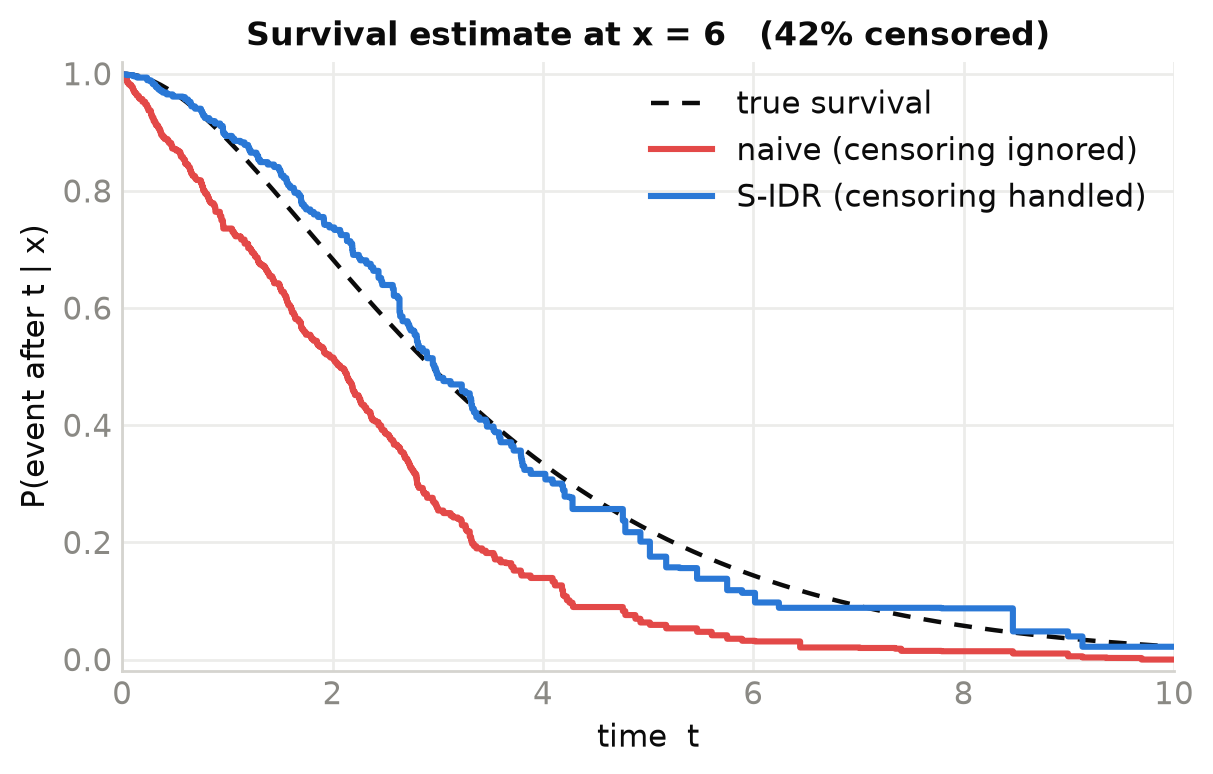
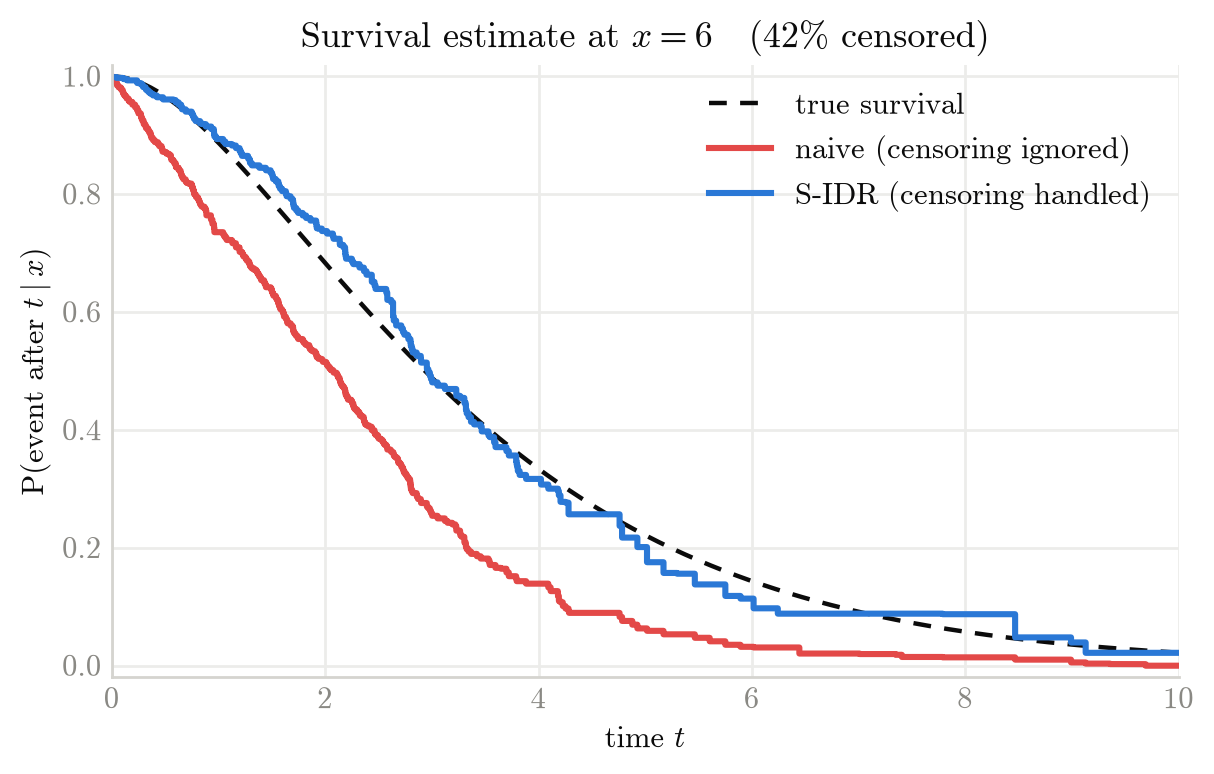
Expand README.md

diff --git a/doc/make_figures.py b/doc/make_figures.py
@@ -29,9 +29,17 @@ mpl.rcParams.update(
         "figure.facecolor": "white",
         "axes.facecolor": "white",
         "savefig.facecolor": "white",
+        # Computer Modern (the "LaTeX look") via matplotlib's own bundled fonts
+        # and mathtext — no external LaTeX/dvipng install required, so the script
+        # stays portable. cmr10 has no bold cut, hence normal-weight titles.
+        "font.family": "serif",
+        "font.serif": ["cmr10", "DejaVu Serif"],
+        "mathtext.fontset": "cm",
+        "axes.unicode_minus": False,
+        "axes.formatter.use_mathtext": True,
         "font.size": 11,
-        "axes.titlesize": 12,
-        "axes.titleweight": "bold",
+        "axes.titlesize": 13,
+        "axes.titleweight": "normal",
         "axes.labelcolor": INK,
         "axes.edgecolor": "#d5d4cf",
         "axes.linewidth": 1.0,
@@ -76,12 +84,12 @@ def figure_distribution():
     axL.scatter(x, y, s=9, color=MUTED, alpha=0.35, edgecolors="none",
                 label="observations", zorder=1)
     axL.fill_between(xs, lo, hi, color=BLUE, alpha=0.16, linewidth=0,
-                     label="10%–90% interval", zorder=2)
+                     label="10%-90% interval", zorder=2)
     axL.plot(xs, med, color=BLUE, lw=2.2, label="median", zorder=3)
     axL.plot(xs, mean, color=ORANGE, lw=2.2, label="mean", zorder=4)
-    axL.set_title("One fit → the whole conditional distribution")
-    axL.set_xlabel("covariate  x")
-    axL.set_ylabel("response  y")
+    axL.set_title(r"One fit $\rightarrow$ the whole conditional distribution")
+    axL.set_xlabel(r"covariate $x$")
+    axL.set_ylabel(r"response $y$")
     axL.set_ylim(-0.3, min(y.max(), 12))
     axL.legend(loc="upper left")
     tidy(axL)
@@ -93,9 +101,9 @@ def figure_distribution():
     cdfs = fit.cdf(np.array(picks))
     for xi, c, cdf in zip(picks, colors, cdfs):
         axR.plot(thr, cdf, drawstyle="steps-post", color=c, lw=2.0,
-                 label=f"x = {xi:.0f}")
-    axR.set_title("Predictive CDF  F(y | x)")
-    axR.set_xlabel("response  y")
+                 label=fr"$x = {xi:.0f}$")
+    axR.set_title(r"Predictive CDF $F(y \mid x)$")
+    axR.set_xlabel(r"response $y$")
     axR.set_ylabel("probability")
     axR.set_xlim(0, 10)
     axR.set_ylim(-0.02, 1.02)
@@ -139,9 +147,9 @@ def figure_censoring():
             label="naive (censoring ignored)")
     ax.plot(thr_s, surv_sidr, drawstyle="steps-post", color=BLUE, lw=2.2,
             label="S-IDR (censoring handled)")
-    ax.set_title(f"Survival estimate at x = {x0:.0f}   ({100*(1-observed.mean()):.0f}% censored)")
-    ax.set_xlabel("time  t")
-    ax.set_ylabel("P(event after t | x)")
+    ax.set_title(fr"Survival estimate at $x = {x0:.0f}$   ({100*(1-observed.mean()):.0f}% censored)")
+    ax.set_xlabel(r"time $t$")
+    ax.set_ylabel(r"P(event after $t \mid x$)")
     ax.set_xlim(0, 10)
     ax.set_ylim(-0.02, 1.02)
     ax.legend(loc="upper right")
@@ -166,9 +174,9 @@ def figure_subagging():
     xs = np.linspace(0.2, 9.8, 300)
     fig, ax = plt.subplots(figsize=(6.4, 4.0))
     ax.plot(xs, raw.predict(xs), color=MUTED, lw=1.8, label="single fit")
-    ax.plot(xs, bag.predict(xs), color=BLUE, lw=2.4, label="subagged (50×)")
+    ax.plot(xs, bag.predict(xs), color=BLUE, lw=2.4, label=r"subagged ($50\!\times\!$)")
     ax.set_title("Subagging stabilises the fit")
-    ax.set_xlabel("covariate  x")
+    ax.set_xlabel(r"covariate $x$")
     ax.set_ylabel("predicted mean")
     ax.set_xlim(0, 10)
     ax.legend(loc="upper left")

diff --git a/README.md b/README.md
@@ -1,7 +1,6 @@
 # isodistrreg: Isotonic Distributional Regression
 
-<p style="text-align: center;">**[Python](bindings/python/README.md) · [R](bindings/R/README.md) ·
-[Rust](isodistrreg/README.md)**</p> 
+<p align="center"><strong><a href="bindings/python/README.md">Python</a> · <a href="bindings/R/README.md">R</a> · <a href="isodistrreg/README.md">Rust</a></strong></p>
 
 Implementations of **Isotonic Distributional Regression (IDR)** and its
 **Survival-IDR (S-IDR)** extension for right-censored data.
@@ -55,11 +54,9 @@ fit.cdf(np.array([2.0, 5.0, 8.0]))               # the full predictive CDF at ea
 <p align="center"><img src="doc/idr_distribution.png" alt="IDR estimates the whole conditional distribution"></p>
 
 <p align="center"><sub>The mean and median (left) trace the centre of the
-response — their gap reveals the skew — while the shaded 10 %–90 % band widens
-exactly where the data become more dispersed, so the <em>spread</em> is captured,
-not just the location. Ask for the predictive CDF at a few covariate values
-(right) and you see the entire distribution shift and stretch as <code>x</code>
-grows.</sub></p>
+response while the shaded 10 %–90 % band widens exactly where the data become
+more dispersed, so the <em>spread</em> is captured, not just the location. The
+entire distribution shifts and stretches as <code>x</code> grows (right).</sub></p>
 
 ## Right-censored outcomes (S-IDR)
 
